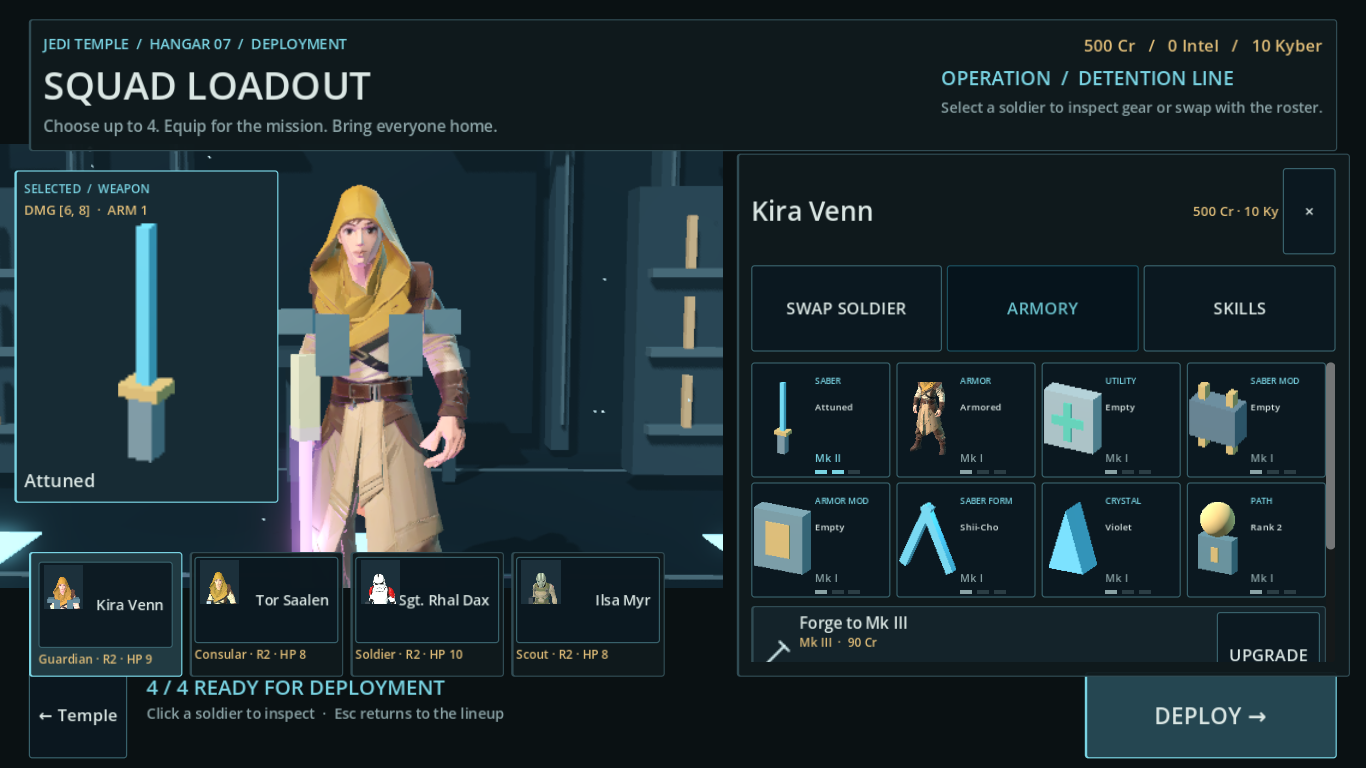
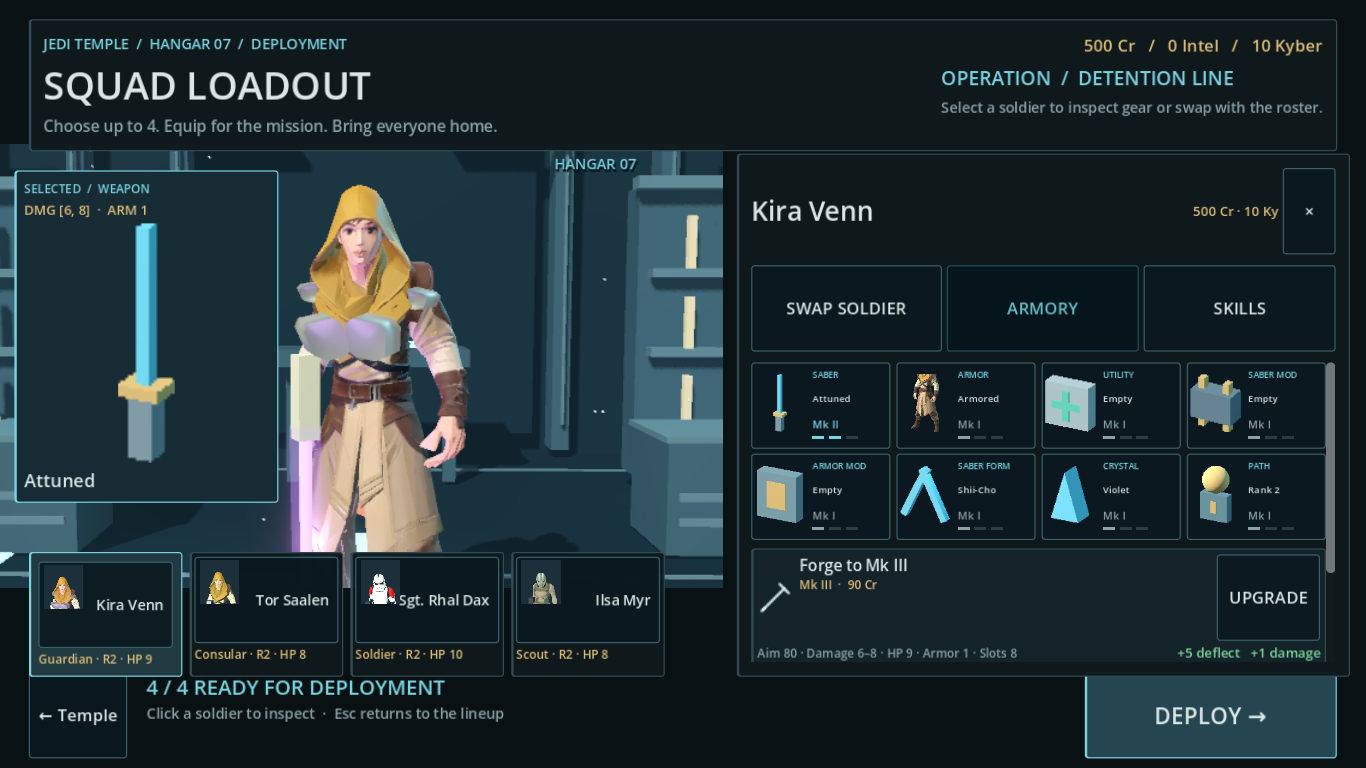
Fix Wave 15 armory phone grid and fitted armor

diff --git a/docs/godot/w15/armory/REPORT.md b/docs/godot/w15/armory/REPORT.md
@@ -1,25 +1,29 @@
-# Wave 15 armory report
+# Wave 15 armory review fix
 
-## Changes
+## Review items
 
-- Built a layered 3D hangar from instanced ribs, weapon racks, crates, a workbench, ceiling fixtures and a metallic floor. High uses two ceiling spotlights and a specular floor; Low uses emissive geometry and no new post effect. The desktop camera drifts within ±3°.
-- Added visible armor plates by armor tier, a hip blaster for troopers, mod glow, and a saber hilt whose size and finish follow its Mk tier. Crystal color changes the blade. Gear actions rebuild the hero in the same action frame.
-- Added a selected gear preview with 120 px art on phone and 200 px art on desktop, plus stats. The phone hero remains clear of the roster; slot cards remain in view.
+| Item | Result | Evidence |
+| --- | --- | --- |
+| 1. Phone gear grid | **PASS** | Four columns fit all eight phone slots in two rows. Labels sit above the icons. The selected preview art remains **120 × 120 px**. The armory test checks label and icon rectangles for every slot. |
+| 2. Armor plates | **PASS** | Thin chamfered chest and shoulder plates follow the imported `spine_03` and upper arm bones. The armored Jedi and heavy trooper shots show plates seated on the model. The test checks all three Mk tiers of every Jedi and trooper armor type, including no armor. |
+| 3. Hangar | **PASS** | Brighter wall ribs, side weapon racks, detailed cargo crates and a floor pool show the room on phone and desktop. `HANGAR 07` is visible above the stage and clear of the preview. Low uses emissive geometry, with no new post effect or spotlights. |
+| 4. Desktop Upgrade | **PASS** | Shorter desktop slot cards leave the first Upgrade card and button fully inside the drawer, above DEPLOY. The test checks its bottom edge. |
 
 ## Captures and performance
 
-Native-size captures were visually inspected. Draws and triangles are `Performance` monitors in the rendered capture, not headless test values. The phone used Compatibility/Low at 844×390; desktop used Forward+/High at 1366×768.
+All four after shots were reopened and inspected at native size. Draws and triangles come from the rendered `Performance` monitors. The phone is 844 × 390 Compatibility/Low; desktop is 1366 × 768 Forward+/High.
 
-| View | Before draws / triangles | After draws / triangles | After FPS sample | Shots |
-| --- | ---: | ---: | ---: | --- |
-| Phone Low | 113 / 24,611 | 107 / 25,661 | 72 | [before](../../shots/wave15-armory-before-phone-low.png) · [after](../../shots/wave15-armory-after-phone-low.png) |
-| Desktop High | 190 / 44,618 | 145 / 47,148 | 68 | [before](../../shots/wave15-armory-before-desktop-high.png) · [after](../../shots/wave15-armory-after-desktop-high.png) |
-| Different loadout, desktop High | — | 153 / 47,250 | 48 | [violet crystal and armored robes](../../shots/wave15-armory-after-desktop-high-different.png) |
+| View | Before draws / triangles | After draws / triangles | Shot |
+| --- | ---: | ---: | --- |
+| Phone Low | 113 / 24,611 | **110 / 26,187** | [phone](../../shots/wave15-armory-after-phone-low.png) |
+| Desktop High | 190 / 44,618 | **147 / 47,556** | [desktop](../../shots/wave15-armory-after-desktop-high.png) |
+| Different loadout, High | 153 / 47,250 | **155 / 47,754** | [armored Jedi](../../shots/wave15-armory-after-desktop-high-different.png) |
+| Trooper heavy armor Mk II, High | — | **154 / 44,446** | [armored trooper](../../shots/wave15-armory-after-desktop-high-trooper.png) |
 
-Low's draw ceiling is 130 (baseline × 1.15, rounded up); observed 107. FPS samples vary with host load. The Low screenshot is a rendering sample, not a sustained device benchmark.
+Low draw ceiling: **130**; observed **110**. The screenshot FPS sample varies with host load and is not a sustained phone benchmark. Original [phone before](../../shots/wave15-armory-before-phone-low.png) and [desktop before](../../shots/wave15-armory-before-desktop-high.png) captures remain available.
 
 ## Gate
 
-- Fresh-worktree and final headless import: exit 0; [import log](import.log).
-- `./godot/test.sh`: exit 0; 56 zero-failure result lines, 0 `SCRIPT ERROR`, 0 failures; Normal rescue 9/20. New `armory15_test`: 14 checks, 0 failures. [Full test log](test.log).
+- Final headless import: exit 0; [log](import.log).
+- Full `./godot/test.sh`: exit 0; 56 zero-failure result lines, 0 `SCRIPT ERROR`, 0 error/failure matches, Normal rescue 9/20. `armory13_test`: 253 checks; `armory15_test`: 50 checks. [Log](test.log).
 - `git diff --check`: clean.
